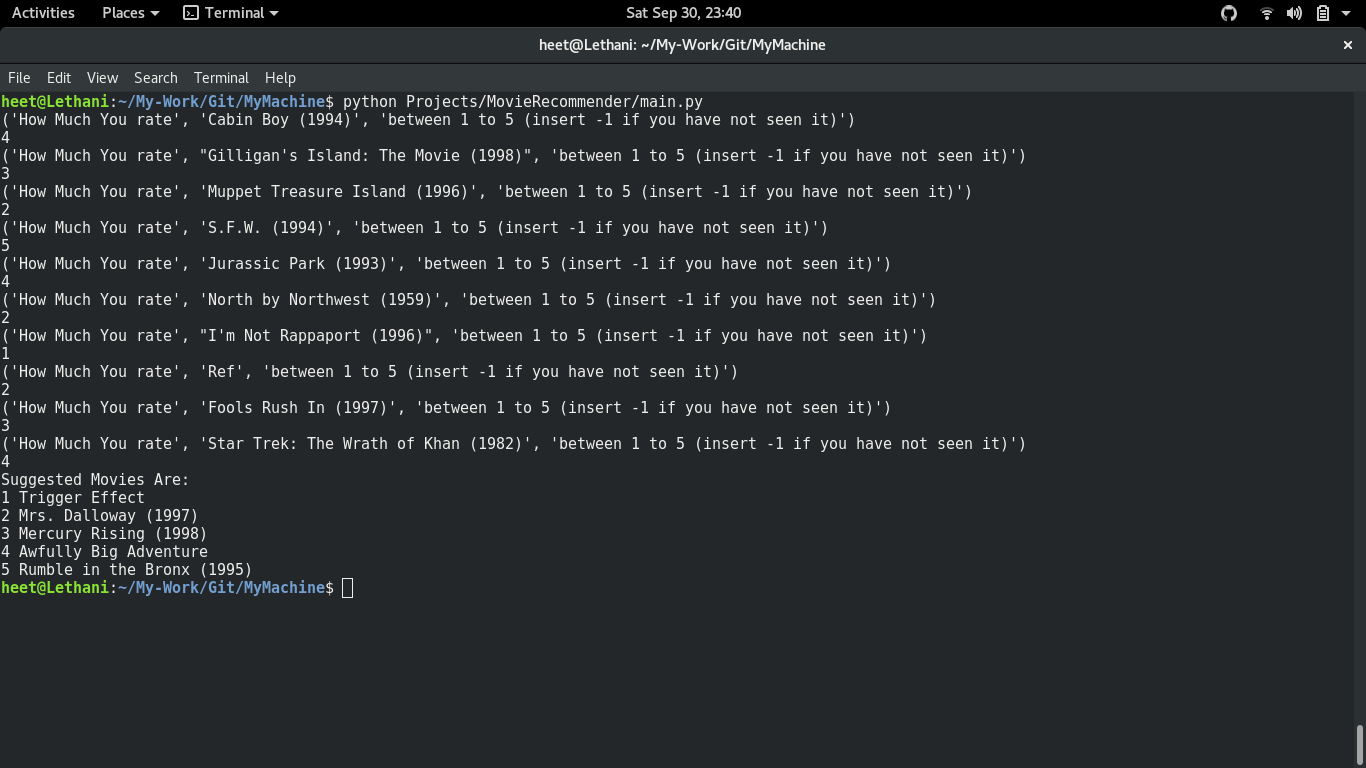
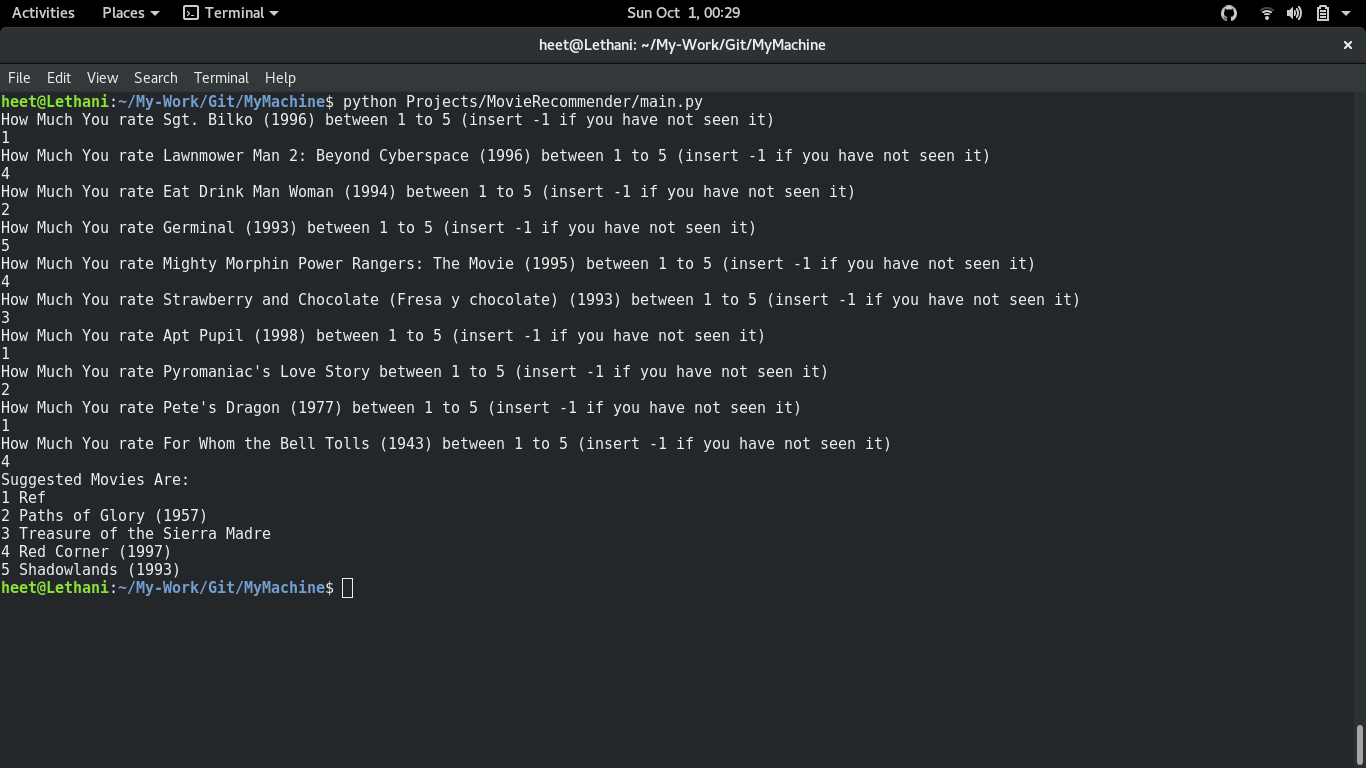
Some Minor  Improvement

diff --git a/Projects/MovieRecommender/main.py b/Projects/MovieRecommender/main.py
@@ -60,8 +60,8 @@ def random_survey(movies_name, num_movies, number_of_questions):
     response = {}
     while n != number_of_questions:
         mid = random.randint(1, num_movies)
-        print("How Much You rate", movies_name[mid],
-              "between 1 to 5 (insert -1 if you have not seen it)")
+        print "How Much You rate", movies_name[mid], \
+              "between 1 to 5 (insert -1 if you have not seen it)"
         try:
             num = input()
             if type(num) == int or type(num) == float:
